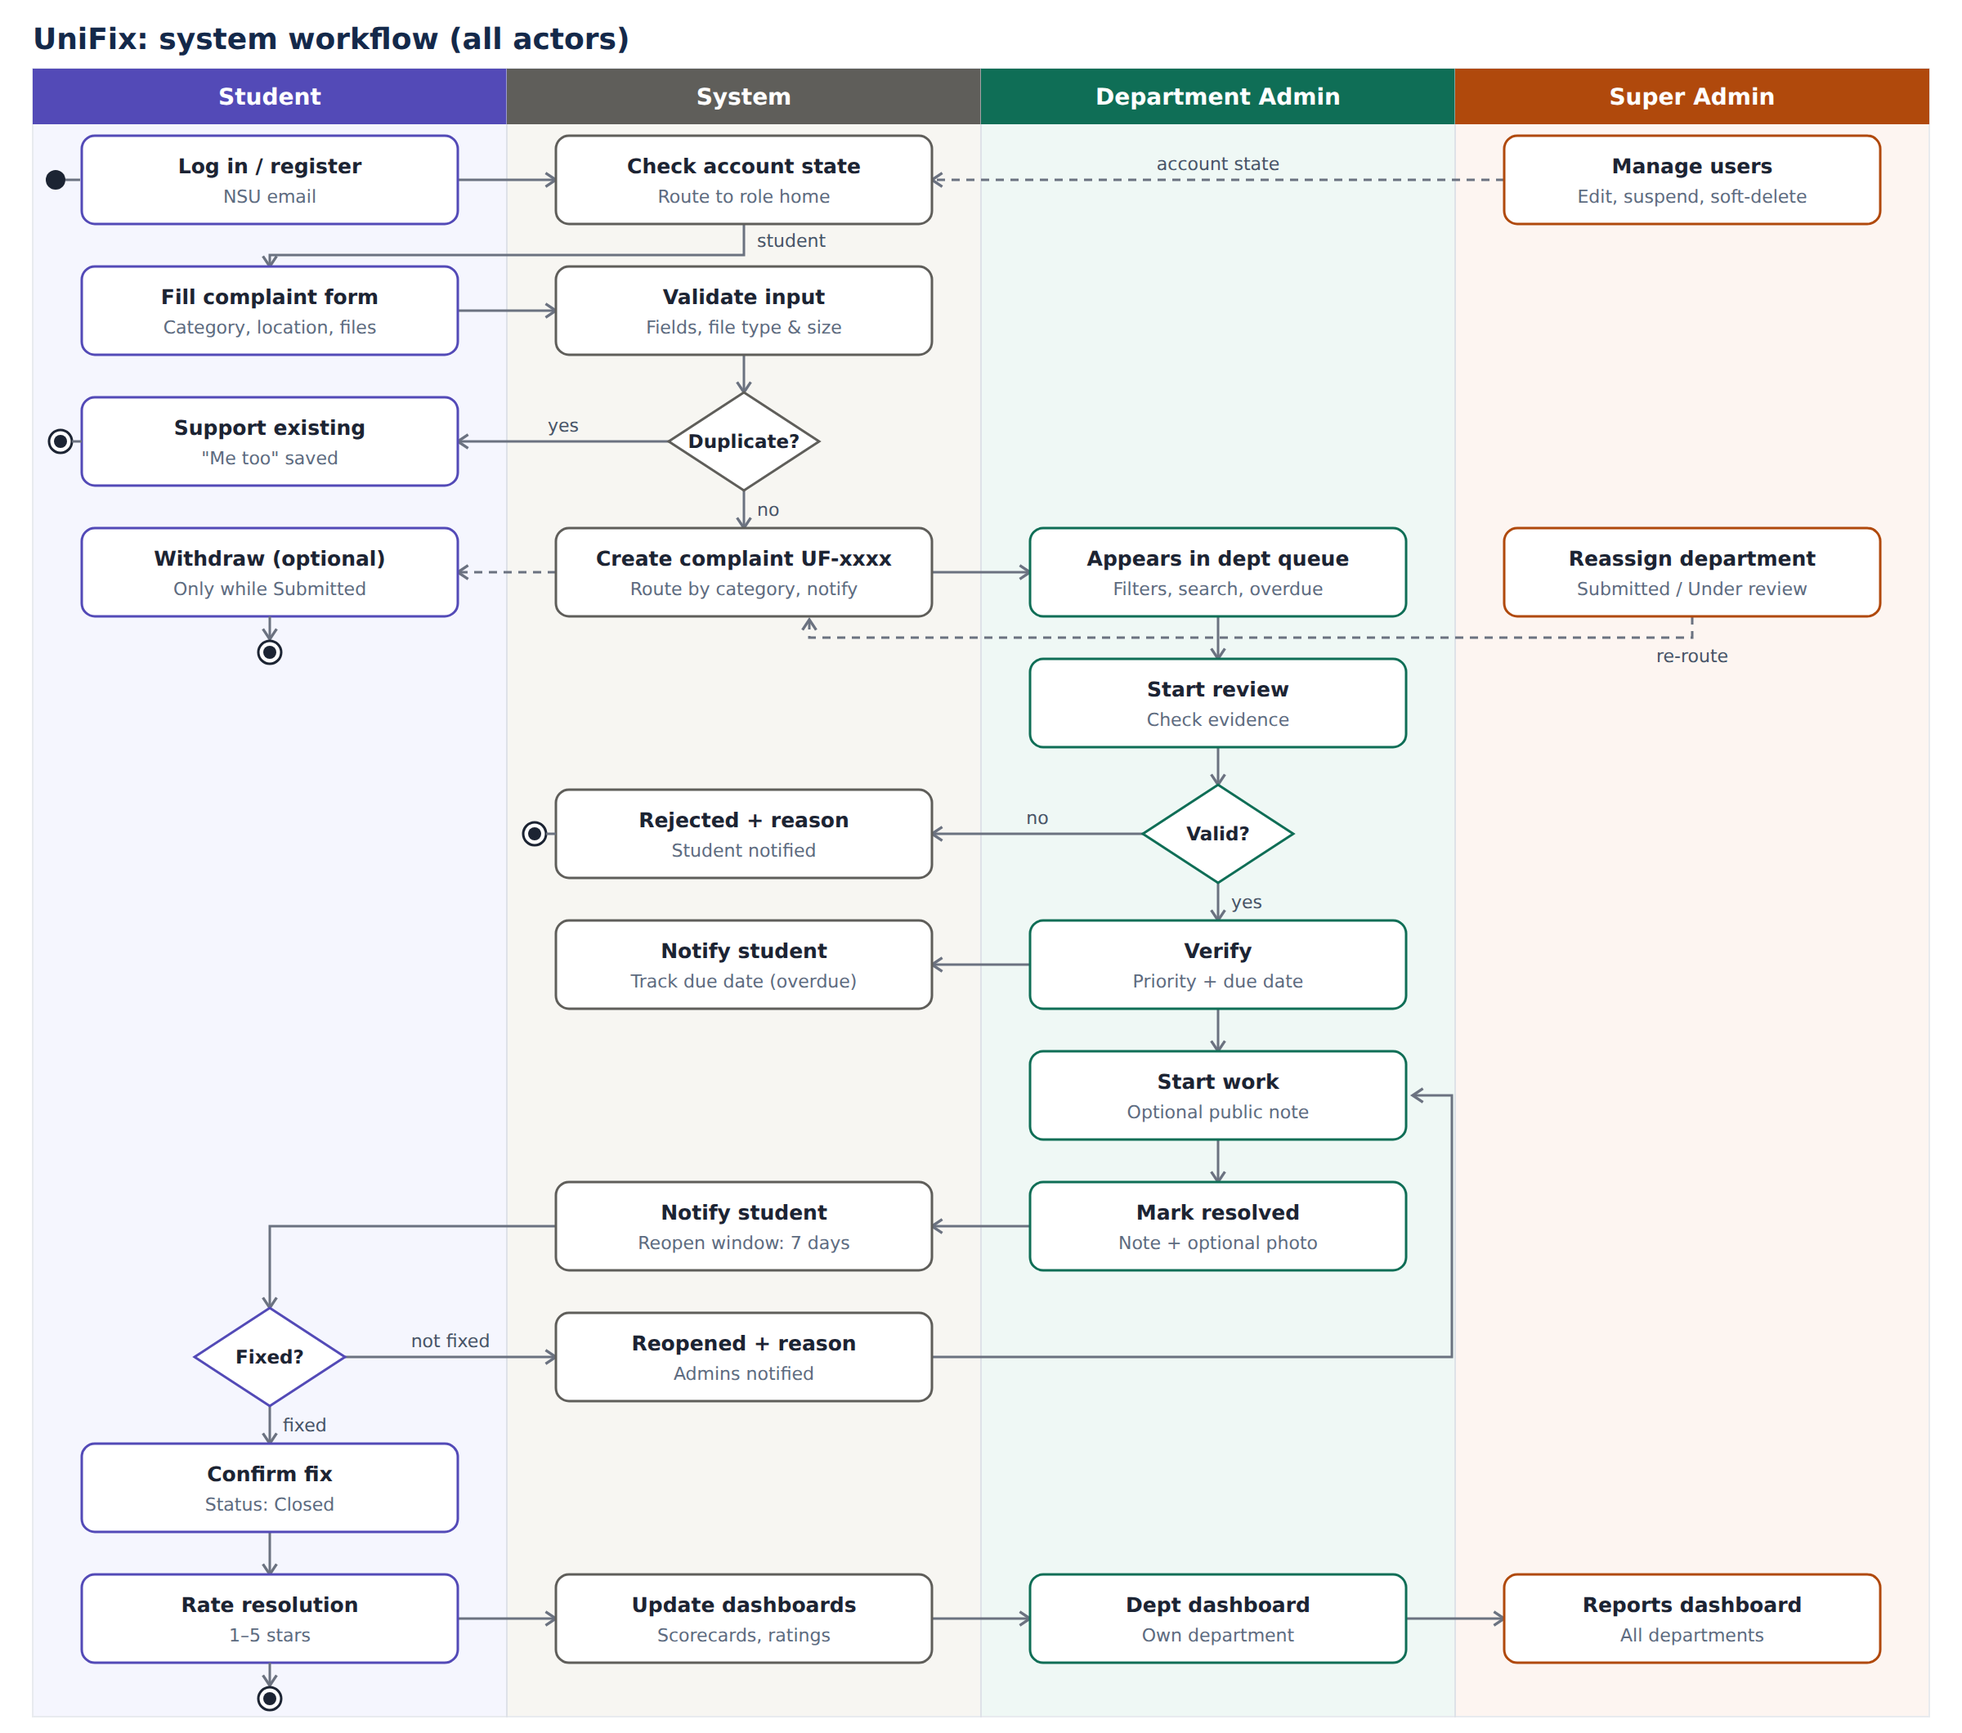
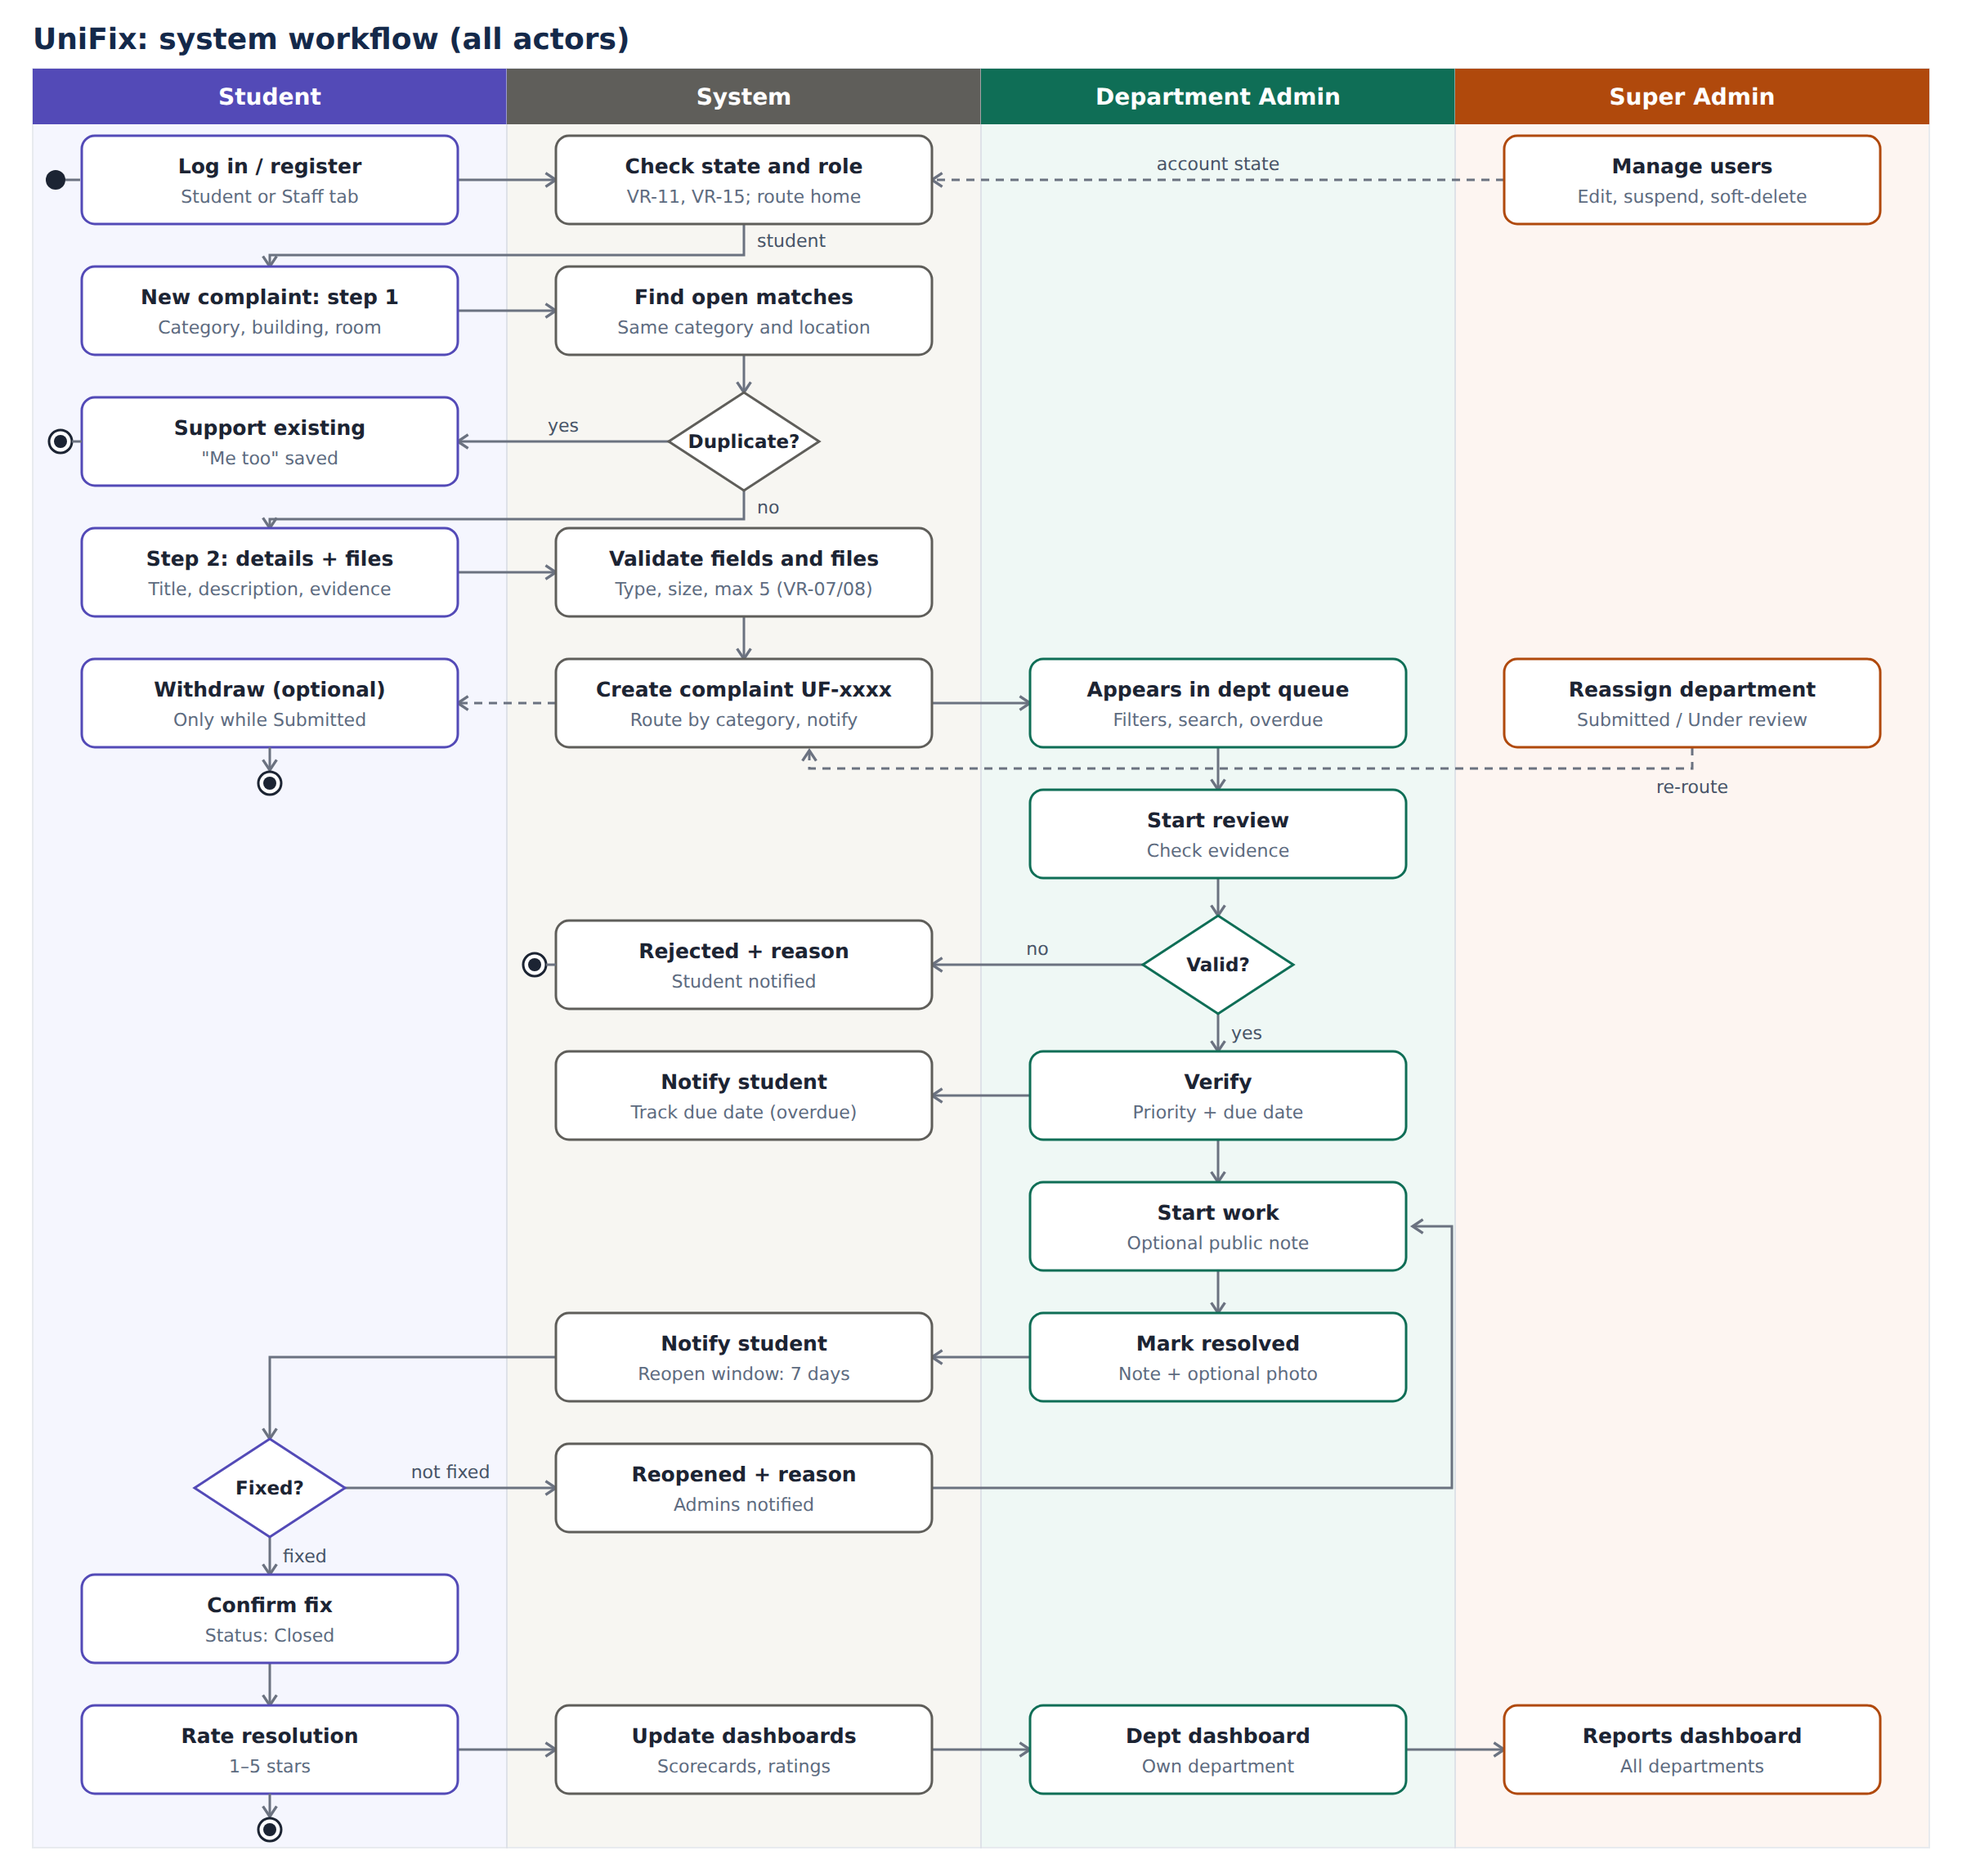
CR-12: update system workflow and ER diagrams
Two-step submission and login tabs in the workflow figure; tracking_id set
after insert, is_staff/is_superuser and the full footnote in the ER diagram.
Removes the outdated-figure note (03 §0) and the diagram open items (09 §4);
07 records that Me too is allowed on any open complaint reachable by URL.

diff --git a/docs/03_workflow.md b/docs/03_workflow.md
@@ -10,7 +10,7 @@
 
 1. **Access.** A user logs in on the Student or Staff tab; the system checks `account_state` (suspended or deleted accounts are blocked), refuses a tab that does not match the role (VR-15), and opens the home page for the user's role.
 2. **Report.** The student first chooses the category and location (form step 1). The system searches for open complaints with the same category and location (§6) before any details or files are entered.
-3. **Duplicate branch.** If one exists, the student can support it ("Me too") instead of submitting. Otherwise the student enters the title, description and files (step 2); the system validates them and creates a complaint `UF-xxxx`, routed to the category's department, and that department's admins are notified. *(The figure shows validation before the duplicate check; it is redrawn with the next diagram update.)*
+3. **Duplicate branch.** If one exists, the student can support it ("Me too") instead of submitting. Otherwise the student enters the title, description and files (step 2); the system validates them and creates a complaint `UF-xxxx`, routed to the category's department, and that department's admins are notified.
 4. **Review.** The complaint appears in the department queue. An admin starts review and decides whether it is valid: invalid complaints are rejected with a reason; valid ones are verified with a priority and due date.
 5. **Work.** The admin starts work and marks the complaint resolved with a note and optional proof photo. The student is notified at each step; overdue complaints are flagged on dashboards.
 6. **Confirmation.** The student confirms the fix (Closed) or reopens it within 7 days, which returns it to the admin for more work.

diff --git a/docs/08_iteration_log.md b/docs/08_iteration_log.md
@@ -90,9 +90,9 @@ Retrospective: Keep: plan checkpoint before building. Change: confirm UI placeme
 Goal: end-to-end student submission.
 Feedback received: FB-12 (Sprint 2 pre-build review; team chose the two-step S-02 and asked for file-safety checks at the halfway checkpoint)
 Change requests: CR-12 (doc fixes done before coding)
-Foundation touched (03/05)? yes, 03 §0, §4, §6 and 05 §2–5, §7 → system workflow figure and ER diagram (`tracking_id` nullable) to be updated (`09` §4)
+Foundation touched (03/05)? yes, 03 §0, §4, §6 and 05 §2–5, §7 → system workflow figure (two-step submission, login tabs) and ER diagram (`tracking_id` set after insert, `is_staff`/`is_superuser`, full footnote) updated
 Built / changed: `Complaint`, `Attachment`, `ComplaintUpdate`, `Support`, `Notification`; `submit()` with routing, history, notifications and file clean-up; VR-07 content-based file checks; `find_duplicates()`, `support()`; `can_view_complaint()` and the access helpers; two-step S-02, S-01, S-03, S-04, private file view; read-only admin; seed complaints in every status; 25 tests (TC-36 to TC-60, 60 in total)
-Carried over to next iteration: admin console and action methods (Sprint 3); `allowed_actions(user)`; console twin of `student:attachment`; notifications list and bell count; seed to call the real action methods; redraw the system workflow figure and refresh the S-02 mockup
+Carried over to next iteration: admin console and action methods (Sprint 3); `allowed_actions(user)`; console twin of `student:attachment`; notifications list and bell count; seed to call the real action methods; refresh the S-02 mockup
 Retrospective: (team to fill in)
 
 ## 7. Suggested GitHub Practice

diff --git a/docs/09_verification_report.md b/docs/09_verification_report.md
@@ -107,7 +107,7 @@ Purpose: confirm that requirements, workflow, screens, data dictionary, diagrams
 - Sprint dates depend on semester deadlines.
 - The submitted proposal (v2 PDF) predates these decisions and is superseded by this documentation set.
 - Course diagrams (use case, class, ER, sequence, activity) still to be drawn from `06`.
-- CR-12 follow-ups for the next diagram and mockup update: the system workflow figure shows validation before the duplicate check (now step 1 → check → step 2); the S-02 mockup shows one combined form, a Room value with the building, a long building label and per-file Remove links; the ER diagram should mark `tracking_id` as nullable.
+- CR-12 follow-up for the next mockup update: the S-02 mockup shows one combined form, a Room value with the building, a long building label and per-file Remove links.
 
 ## 5. How to Re-run
 

diff --git a/docs/07_decision_log.md b/docs/07_decision_log.md
@@ -38,6 +38,7 @@
 | Oct 2026 | Own and already-supported complaints are shown among duplicate matches, labelled, without Me too | The student learns they already reported or support the issue (VR-09, CR-12) |
 | Oct 2026 | Submission logic in `Complaint.submit()` | Same pattern as every other action: one model method, one transaction (CR-12) |
 | Oct 2026 | One "Clear files" link instead of a Remove link per file | A file input cannot drop single files without extra JavaScript (CR-12) |
+| Oct 2026 | Me too is allowed on any open complaint a student can reach by URL; only the limited view (VR-01) is shown | The limited view holds the same fields as a duplicate summary on S-02, so nothing private is exposed; restricting Me too to S-02 matches would add complexity for no privacy gain (CR-12) |
 
 ## Keep in View
 
